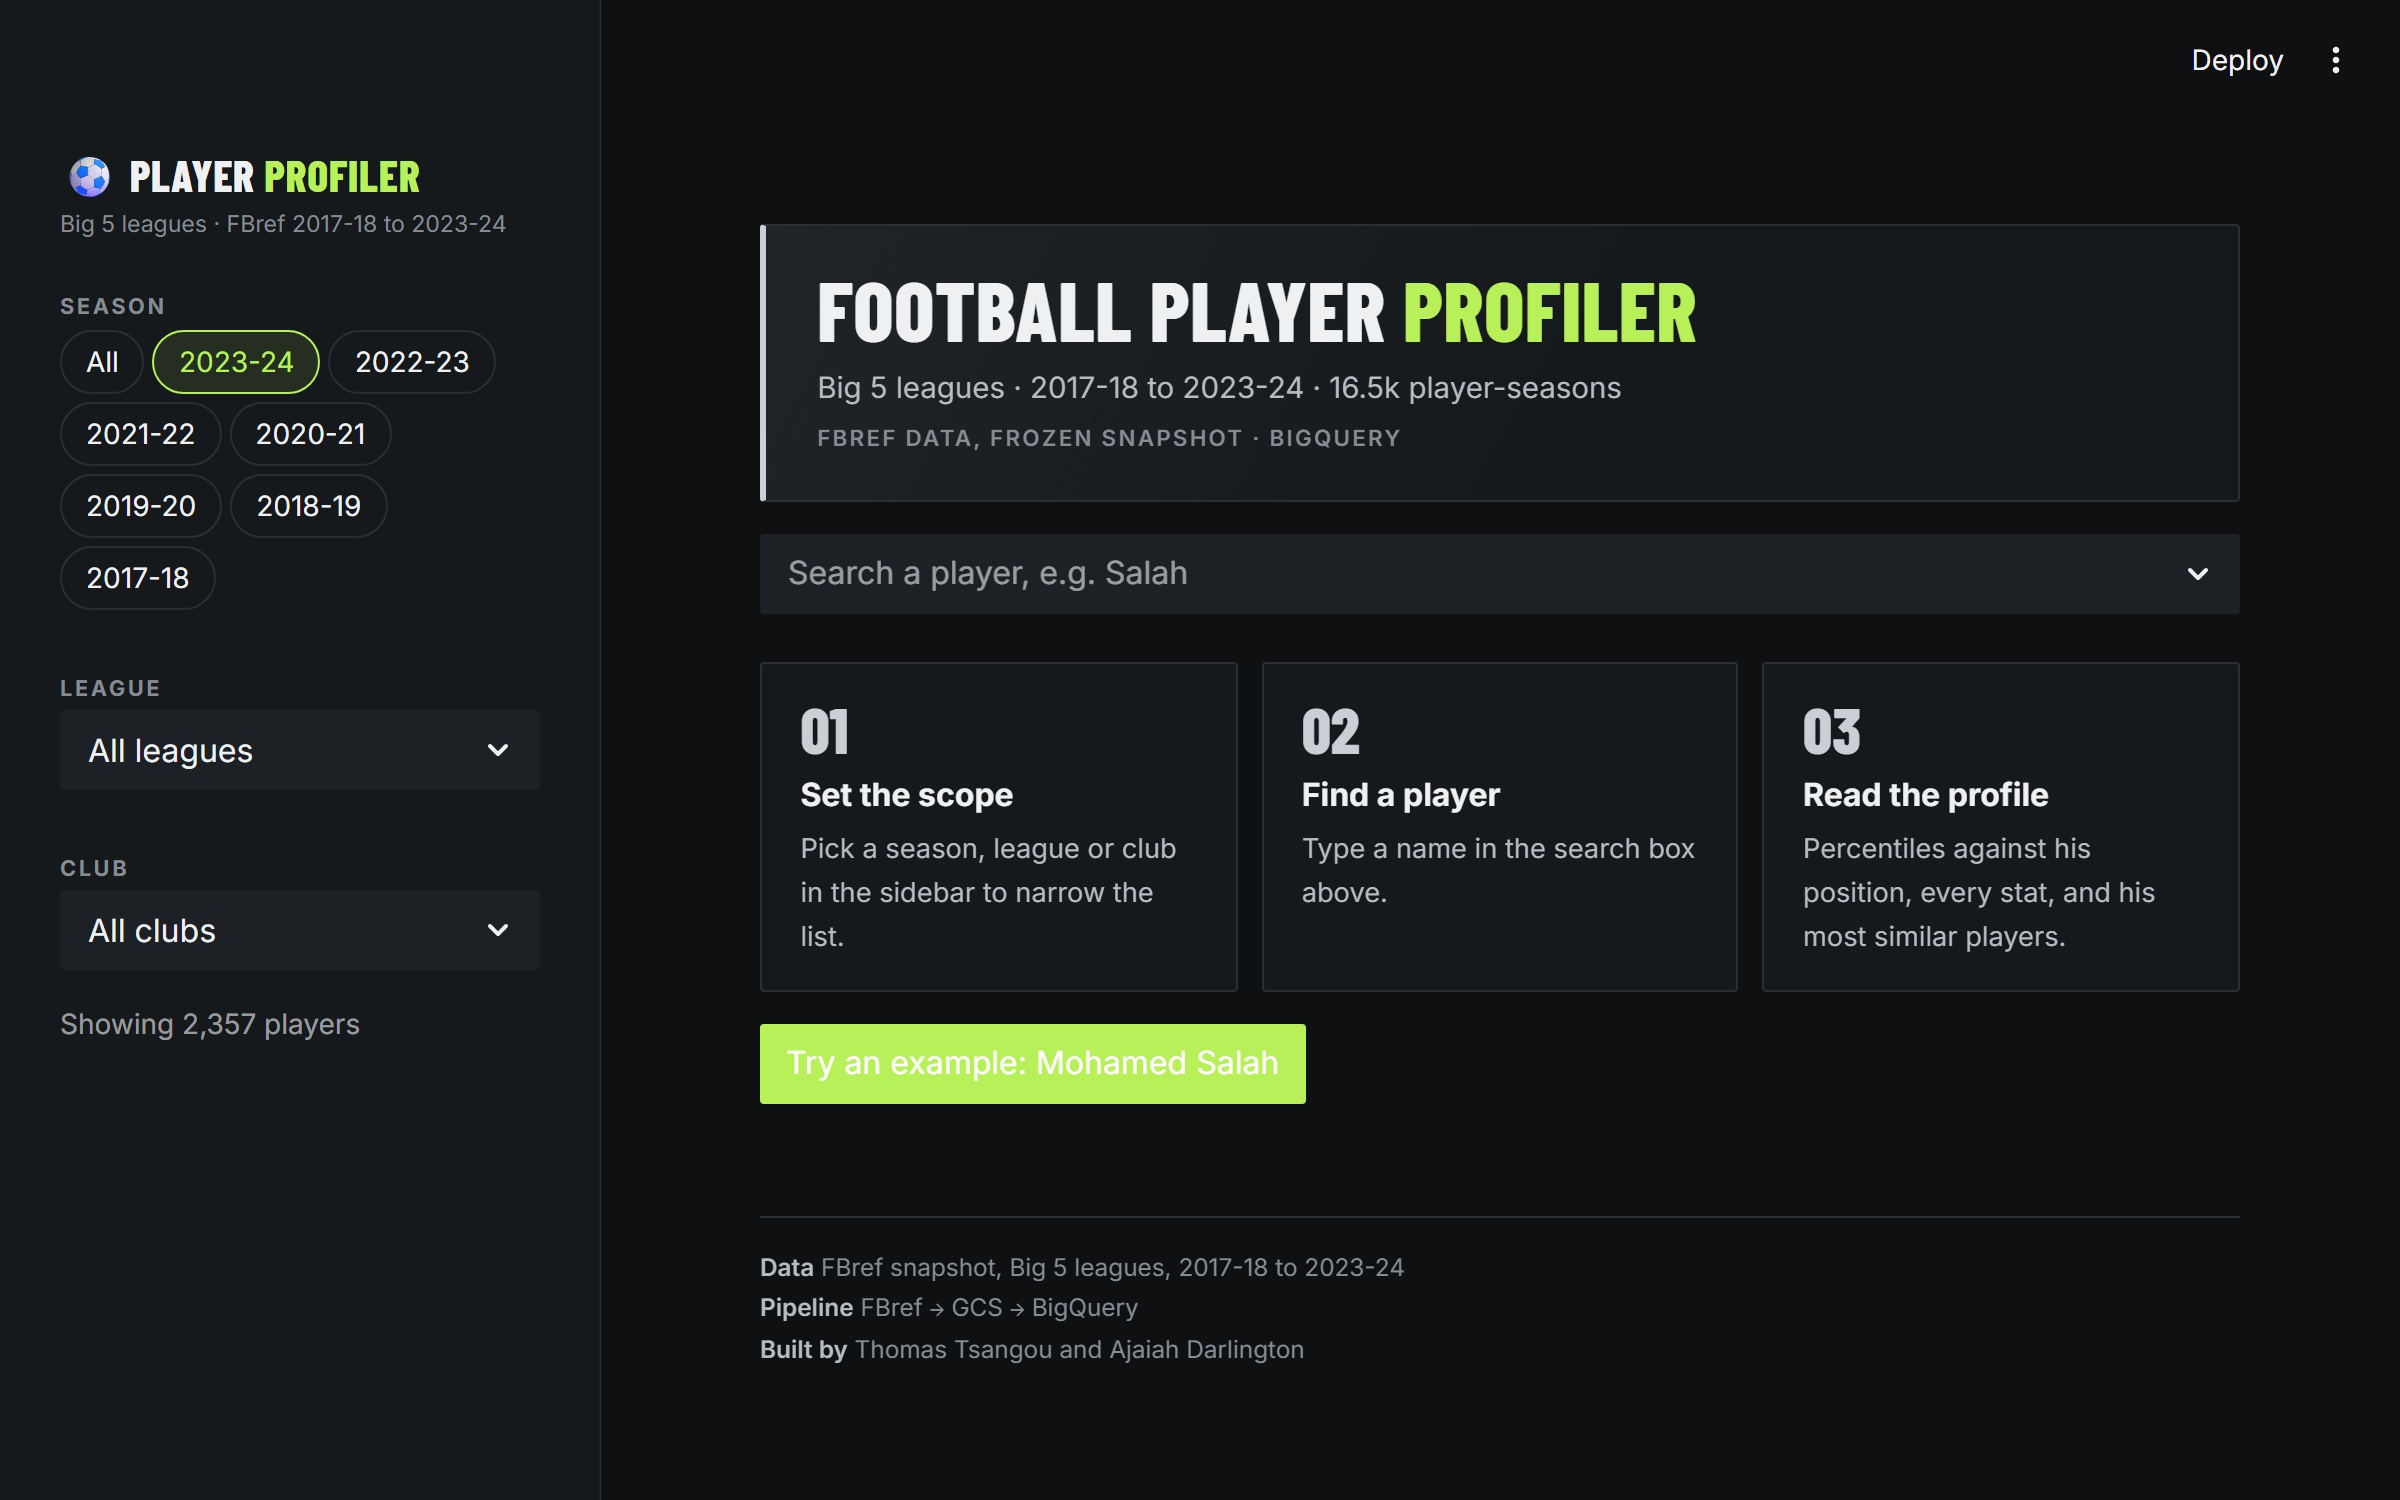
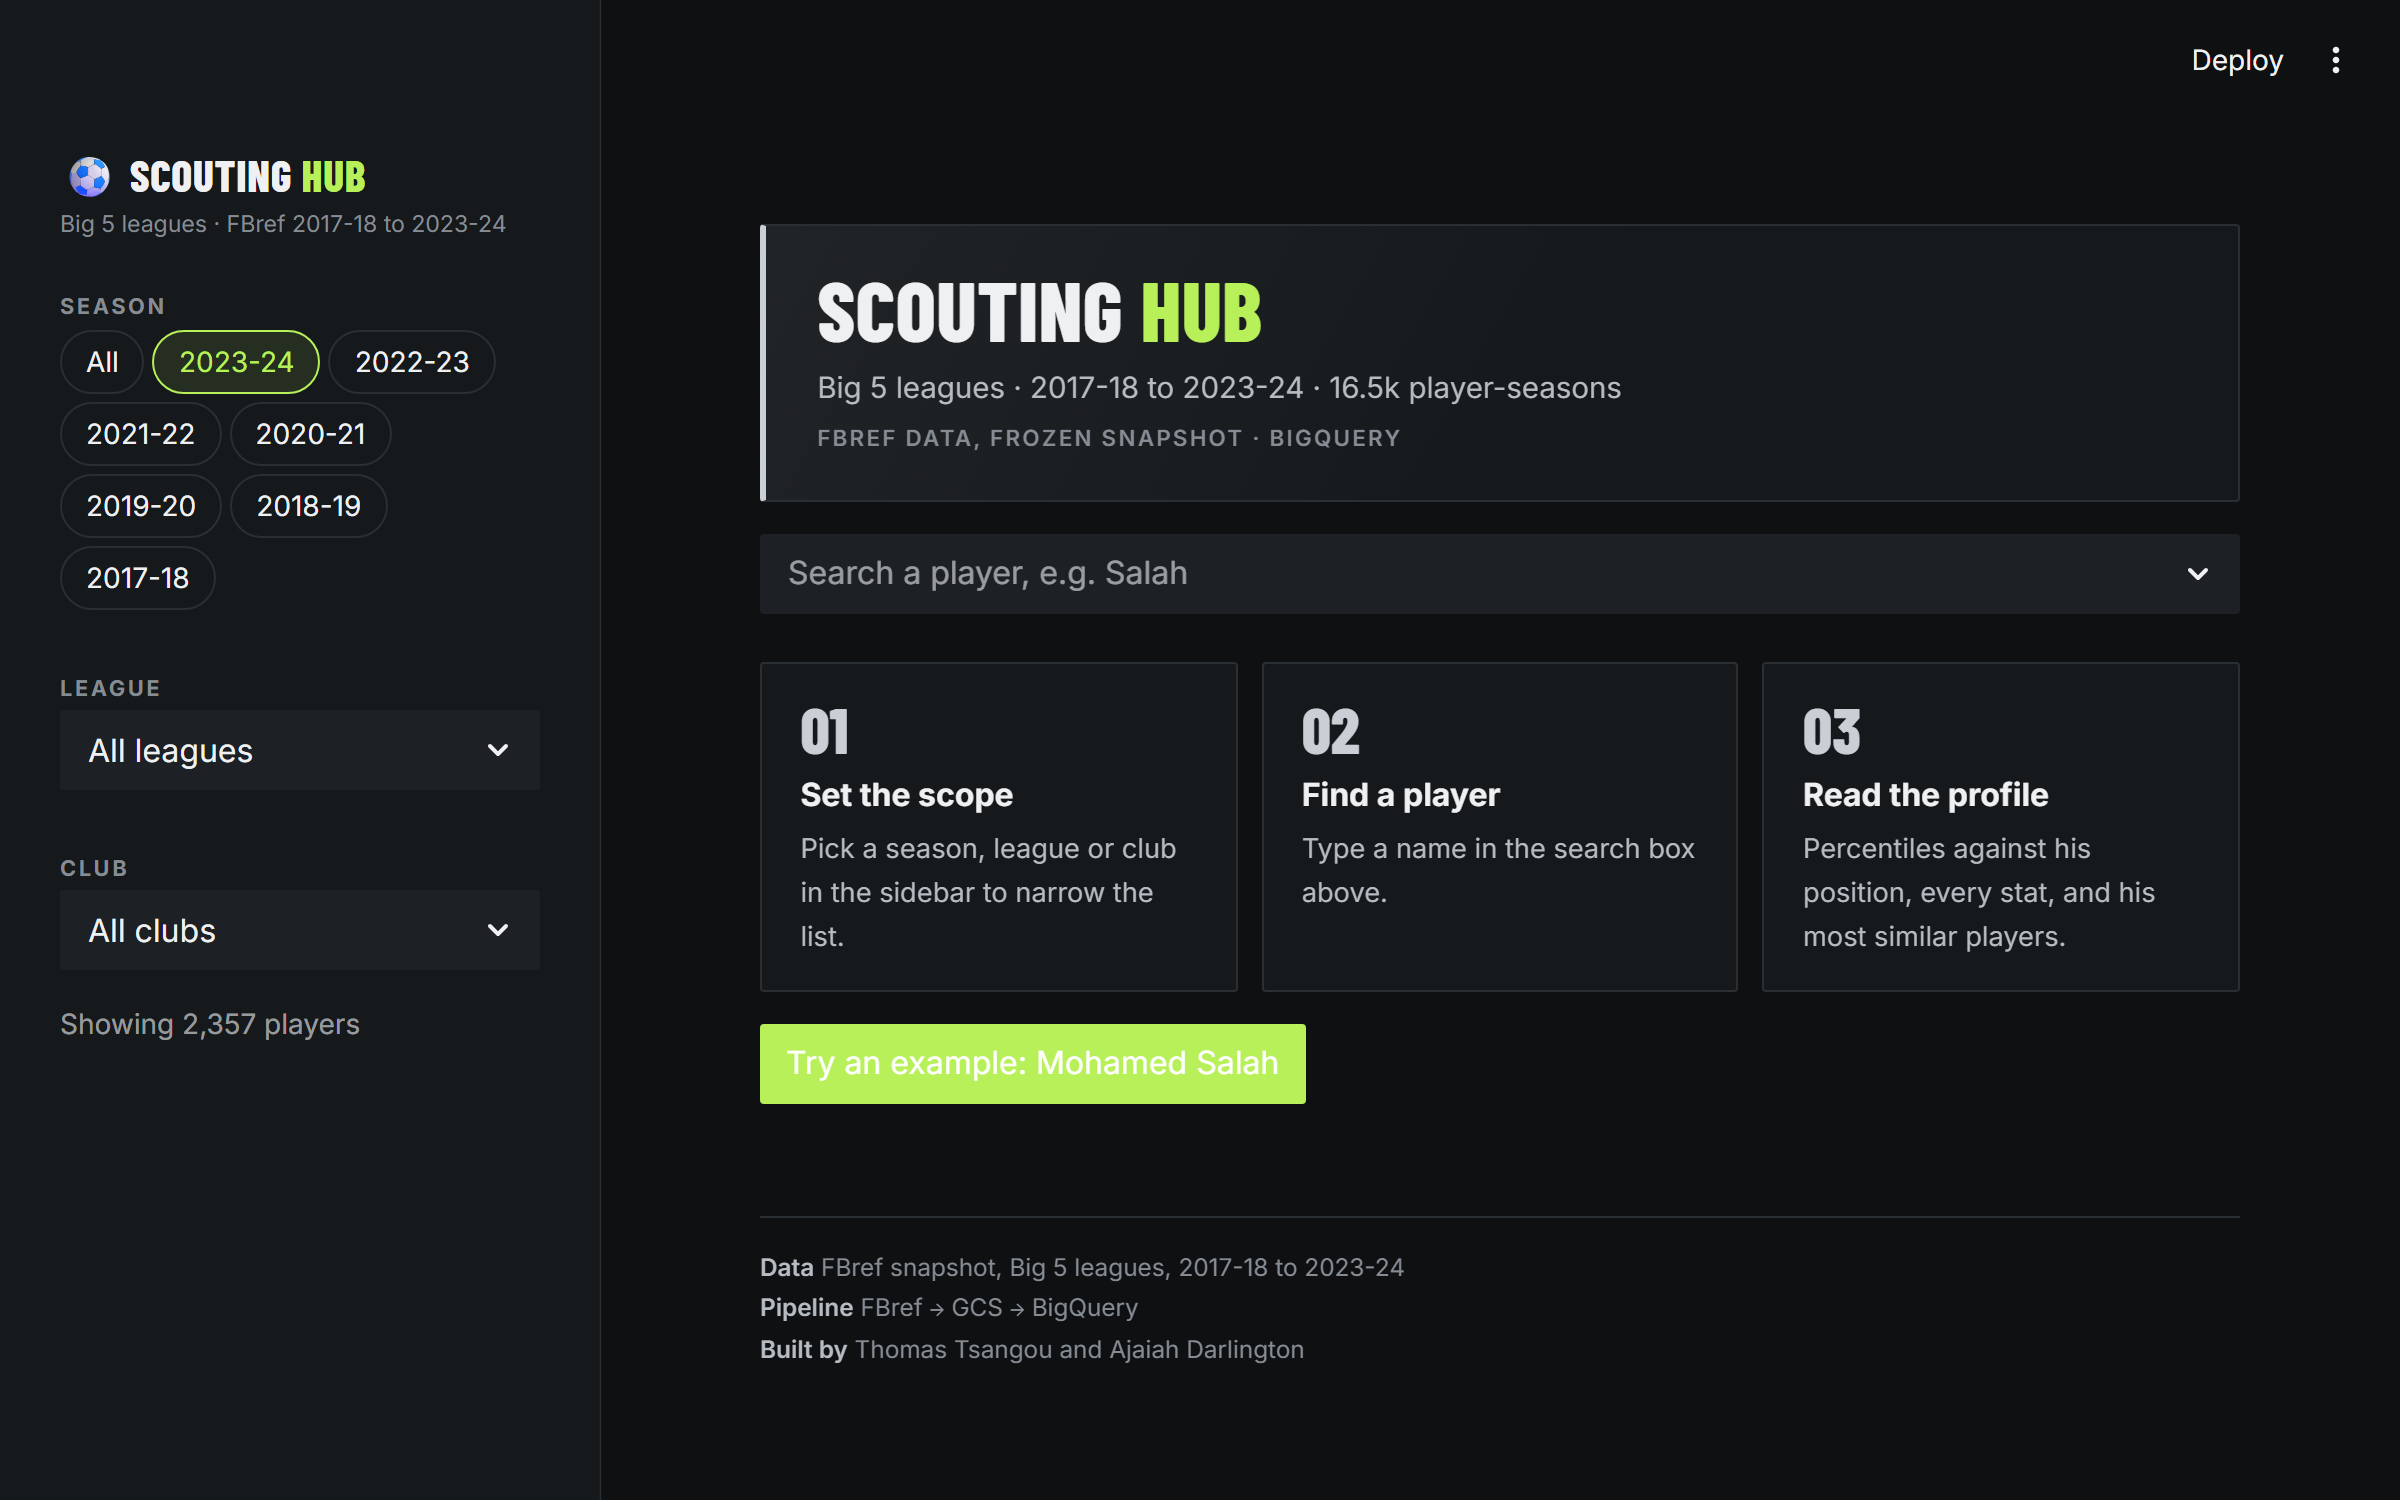
Rename the app to Scouting Hub
Page title, hero ("SCOUTING HUB", lime on HUB), sidebar brand, module
docstrings, README and the screenshot script now say Scouting Hub instead
of Football Player Profiler. Tests assert the new strings and that the
hero and brand each carry exactly one highlighted word. README
screenshots 01/03/05/07 refreshed.

Changed region(s): [[0.3438, 0.184, 0.7188, 0.2453], [0.0625, 0.092, 0.1875, 0.1533]]

diff --git a/tests/test_theme.py b/tests/test_theme.py
@@ -37,7 +37,7 @@ def test_accent_is_not_used_on_structural_chrome():
 
 
 def test_accent_appears_only_on_the_brand_words():
-    # lime in the injected CSS: the hero word and the sidebar brand word, nothing else
+    # lime in the injected CSS: the hero word and the sidebar brand word ("Hub"), nothing else
     lines = [ln for ln in theme.CSS.splitlines() if theme.ACCENT in ln]
     assert len(lines) == 2
     assert any(ln.startswith(".fl-hero-title em") for ln in lines)
@@ -105,8 +105,8 @@ def test_avatar_identity_and_hero():
     assert ">MS</span>" in theme.avatar_html("Mohamed Salah")
     ident = theme.identity_html("Mohamed Salah", [theme.chip("Liverpool")])
     assert "fl-name" in ident and "Mohamed Salah" in ident and "Liverpool" in ident
-    hero = theme.hero_html("Football Player", "Profiler", "sub line", "meta line")
-    assert "Football Player <em>Profiler</em>" in hero and "sub line" in hero and "meta line" in hero
+    hero = theme.hero_html("Scouting", "Hub", "sub line", "meta line")
+    assert "Scouting <em>Hub</em>" in hero and hero.count("<em>") == 1 and "sub line" in hero and "meta line" in hero
 
 
 def test_steps_empty_state_footer_and_labels():
@@ -117,7 +117,8 @@ def test_steps_empty_state_footer_and_labels():
     footer = theme.footer_html([("Data", "FBref"), ("Built by", "Thomas Tsangou and Ajaiah Darlington")])
     assert "<strong>Built by</strong> Thomas Tsangou and Ajaiah Darlington" in footer
     assert "fl-label" in theme.section_label_html("Season")
-    assert "Profiler" in theme.brand_html()
+    brand = theme.brand_html()
+    assert "Scouting <em>Hub</em>" in brand and brand.count("<em>") == 1
 
 
 def test_every_html_helper_is_a_single_line():

diff --git a/src/ui/theme.py b/src/ui/theme.py
@@ -30,7 +30,7 @@ INK_2 = "#b6bcc2"       # secondary text
 MUTED = "#858c93"       # labels, captions
 GRID = "rgba(238,240,242,0.07)"  # chart gridlines
 # The ONE interface accent. Allowed only on: primaryColor (selected pills,
-# tabs, slider, focus), the hero/brand highlight word, the Elite band. Never
+# tabs, slider, focus), the hero/brand highlight word ("Hub"), the Elite band. Never
 # on structural chrome - that is RULE (tests/test_theme.py enforces it).
 ACCENT = "#b8f05a"
 RULE = "#c9cfd4"        # chalk structural accent: tile borders, section bars, hero rule, avatar ring, position chip
@@ -226,7 +226,7 @@ def hero_html(title: str, highlight: str, sub: str, meta: str) -> str:
 
 
 def brand_html() -> str:
-    return ('<div class="fl-brand">⚽ Player <em>Profiler</em></div>'
+    return ('<div class="fl-brand">⚽ Scouting <em>Hub</em></div>'
             '<div class="fl-brand-sub">Big 5 leagues · FBref 2017-18 to 2023-24</div>')
 
 

diff --git a/app.py b/app.py
@@ -1,7 +1,7 @@
 """
 app.py
 ======
-Football Player Profiler - Streamlit entry point.
+Scouting Hub - Streamlit entry point.
 
 Thin shell: page config, theme, hero, sidebar filters, player search and
 the three tabs. The rest lives in src/ui/ (metric config in
@@ -18,11 +18,11 @@ import streamlit as st
 from src.ui import data, theme
 from src.ui.views import header, picker, profile, similar, stats_tab
 
-st.set_page_config(page_title="Football Player Profiler", page_icon="⚽", layout="wide")
+st.set_page_config(page_title="Scouting Hub", page_icon="⚽", layout="wide")
 theme.inject(st)
 
-HERO_TITLE = "Football Player"
-HERO_HIGHLIGHT = "Profiler"
+HERO_TITLE = "Scouting"
+HERO_HIGHLIGHT = "Hub"
 HERO_SUB = "Big 5 leagues · 2017-18 to 2023-24 · 16.5k player-seasons"
 HERO_META = "FBref data, frozen snapshot · BigQuery"
 FOOTER_PARTS = (

diff --git a/tests/test_app.py b/tests/test_app.py
@@ -51,7 +51,7 @@ def _captions(at) -> str:
 def test_no_selection_shows_hero_onboarding_and_footer(stub_data):
     at = _app()
     md = _markdown(at)
-    assert "Football Player <em>Profiler</em>" in md
+    assert "Scouting <em>Hub</em>" in md
     assert "Big 5 leagues · 2017-18 to 2023-24 · 16.5k player-seasons" in md
     assert "Set the scope" in md and "Find a player" in md and "Read the profile" in md
     assert at.button(key="try_example").label == "Try an example: Mohamed Salah"

diff --git a/scripts/screenshot.py b/scripts/screenshot.py
@@ -1,4 +1,4 @@
-"""Review screenshots of the running Profiler (spec: 1200x750 at 2x).
+"""Review screenshots of the running Scouting Hub app (spec: 1200x750 at 2x).
 
 1. Start the app against real BigQuery (gcloud ADC must be set up):
        .venv\\Scripts\\python -m streamlit run app.py --server.headless true --server.port 8599

diff --git a/src/ui/__init__.py b/src/ui/__init__.py
@@ -1,1 +1,1 @@
-"""Streamlit UI for the Football Player Profiler (theme, charts, metric config, cached queries, views)."""
+"""Streamlit UI for Scouting Hub (theme, charts, metric config, cached queries, views)."""

diff --git a/README.md b/README.md
@@ -1,4 +1,4 @@
-# Football Scouting Report
+# Scouting Hub
 
 An end-to-end football analytics platform built on a professional GCP data stack. Covers 7 seasons (2017–2024) of player statistics across Europe's Big 5 leagues, with a player similarity model and an interactive Streamlit scouting app backed by BigQuery.
 
@@ -83,7 +83,7 @@ Defined in `src/similarity.py`. Uses cosine similarity on z-scored stats.
 
 ## App
 
-`app.py` runs the **Football Player Profiler**, a Streamlit app that queries BigQuery live (results are cached for an hour).
+`app.py` runs **Scouting Hub**, a Streamlit app that queries BigQuery live (results are cached for an hour).
 
 - Sidebar filters: season (or all seasons), league and club
 - Search for one player. Players with several seasons in view get a season switcher.
@@ -166,7 +166,7 @@ python scripts/screenshot.py
 scouting-report/
 ├── run_cleaning.py          # Pipeline entry point — cleans all datasets
 ├── gcp_loader.py            # Uploads to GCS, loads into BigQuery, rebuilds feature tables
-├── app.py                   # Streamlit app shell (Football Player Profiler)
+├── app.py                   # Streamlit app shell (Scouting Hub)
 ├── schema.sql               # Full BigQuery DDL (raw tables + feature tables + percentile views)
 ├── requirements.txt
 ├── requirements-dev.txt     # + pytest
